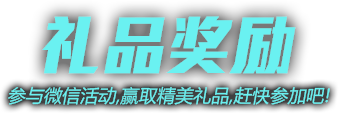
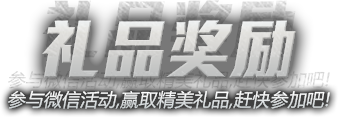
update

diff --git a/css/game.css b/css/game.css
@@ -311,29 +311,10 @@ body.disabled-onepage-scroll, .disabled-onepage-scroll .onepage-wrapper, html {
 }
 .mb5{margin-bottom: 5px;}
 
-.page1_h5{
-  background-image: url('../img/h5_page1.jpg');
-  background-repeat:no-repeat;
-  background-size:cover;
-  text-align: center;
-  -webkit-align-items:flex-end;
-  align-items:flex-end;
-  display: flex;
-  display: -webkit-flex;
-}
-.page2_h5{
-  background-image: url('../img/h5_page2.jpg');
-  background-repeat:no-repeat;
-  background-size:cover;
-  text-align: center;
-  -webkit-align-items:flex-end;
-  align-items:flex-end;
-  display: flex;
-  display: -webkit-flex;
-}
-
-.page3_h5{
-  background-image: url('../img/h5_page3.jpg');
+.page1_h5,
+.page2_h5,
+.page3_h5 {
+  background-image: url('../img/h5_page.jpg');
   background-repeat:no-repeat;
   background-size:cover;
   text-align: center;
@@ -347,8 +328,8 @@ body.disabled-onepage-scroll, .disabled-onepage-scroll .onepage-wrapper, html {
 }
 
 .gamelogo.gamelogo_h5{
-  width: 90px;
-  height: 105px;
+  width: 115px;
+  height: 119px;
   margin-top: 0px;
   opacity: 1
 }
@@ -383,7 +364,9 @@ img.gamenextbtn, img.gameprebtn{
   margin-top: 20px;
 }
 .page3_h5 .h5Info{
-  margin: 0 10px;
+  margin: 10px 10px 0;
+  position: relative;
+  z-index: 8;
 }
 .page3_h5_list a{
   width: 48%;
@@ -422,7 +405,11 @@ img.gamenextbtn, img.gameprebtn{
   width: 30%
 }
 
-.gameinfoh5{width: 90%}
+.gameinfoh5{
+  width: 50%;
+  position: relative;
+  z-index: 8;
+}
 
 .gamelogo_h5 ,.gemeindexbtn{
   opacity: 0
@@ -489,7 +476,7 @@ img.gamenextbtn, img.gameprebtn{
   }
 }
 
-.game_fly_two{margin-top: -70px}
+.game_fly_two{margin-top: -35px}
 .game_fly{opacity: 0}
 
 .fly
@@ -522,12 +509,12 @@ animation: fly 1s forwards linear;
 
 .fixed{
   position: fixed;
-  top: 20%;
+  top: 50px;
   right: 0;
   width: 164px;
   height: 35px;
   background: url(../img/gameh5title.png) no-repeat;
-  background-size: 164px 35px;
+  background-size: 164px 35px; 
   -webkit-background-size: 164px 35px;
 }
 .fixed a {
@@ -544,4 +531,19 @@ animation: fly 1s forwards linear;
 .fixed a:last-child {
   width: 62px;
   text-indent: 10px;
+}
+.gametitle_h5_three {
+  display: none!important;
+}
+.page3_h5_list {
+  position: relative;
+}
+.page3_h5_list .page3_bg {
+  position: absolute;
+  top: 0;
+  left: 0;
+  width: 100%;
+  height: 240px;
+  background: rgba(0, 0, 0, .6); 
+  z-index: 1
 }

diff --git a/h5.html b/h5.html
@@ -11,7 +11,7 @@
 <body>
 <div class="header headerRight_h5">
 	<div class="headerRight clearfix">
-		<img src="img/gamelogo.png" alt="战舰世界" class="gamelogo gamelogo_h5">
+		<img src="img/gamelogoh5.png" alt="战舰世界" class="gamelogo gamelogo_h5">
 		<div class="fr">	
 			<span>关注我们：</span>
 			<span class="socialIcon wx"><a class="weixin"></a></span>
@@ -48,6 +48,7 @@
 	</div>
 	<div class="page page3_h5">
 		<div class="page3_h5_list">
+			<div class="page3_bg"></div>
 			<img src="img/gameInfoH5.png" alt="" class="gameinfoh5">
 			<div class="clearfix h5Info">
 				<a href="###"><img src="img/gameTag.png" alt=""><span>模型</span></a>
